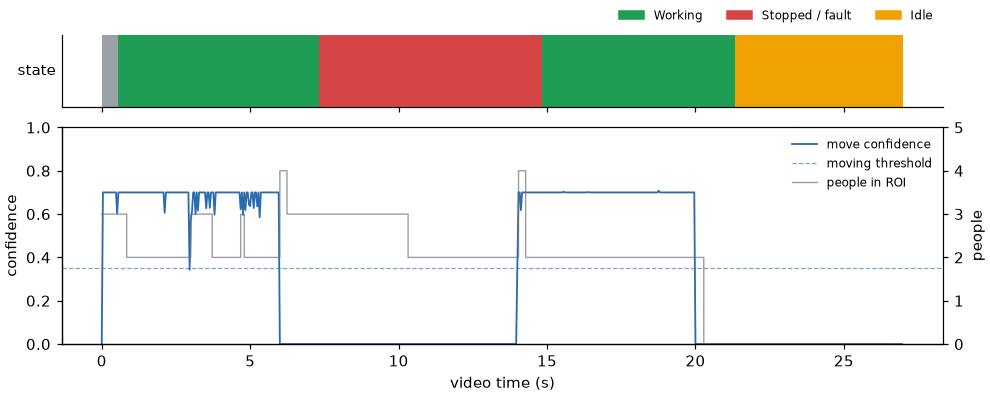
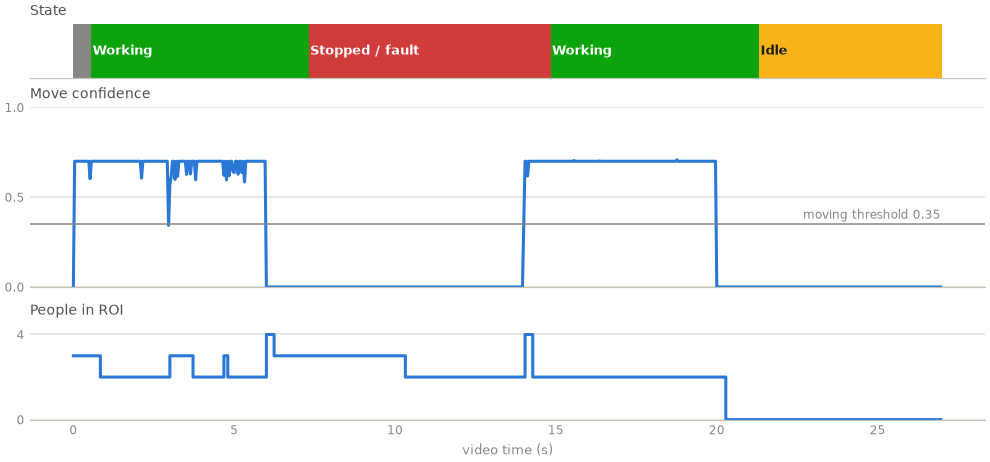
Draw the timeline as panels on one time axis
Move confidence and people count shared a plot with two y-axes, which
invites reading a relationship into arbitrary scale alignment. They are
now separate panels under the state band, with status colours for the
states and a labelled threshold line.

Changed region(s): [[0.0, 0.0, 1.0, 1.0], [0.0303, 0.0, 0.0606, 0.0303], [0.0, 0.2121, 0.0303, 0.2424]]

diff --git a/app.py b/app.py
@@ -21,7 +21,6 @@ import cv2
 import gradio as gr
 import numpy as np
 from matplotlib.figure import Figure
-from matplotlib.patches import Rectangle
 
 from escalator_monitor.config import Config
 from escalator_monitor.detector import ReplayDetector, YoloPersonDetector
@@ -40,7 +39,8 @@ EXAMPLES_DIR = Path(os.environ.get("EXAMPLES_DIR", "examples"))  # optional real
 WORK_DIR = Path(tempfile.gettempdir()) / "escalator_monitor"
 REPO_URL = "https://github.com/pranjal-agarwal01/Station-Facility-Monitor-Escalator-using-Computer-Vision-"
 
-STATE_COLORS = {"WORKING": "#1f9d55", "STOPPED / FAULT": "#d64545", "IDLE": "#f0a202", "INITIALIZING": "#9aa0a6"}
+STATE_COLORS = {"WORKING": "#0ca30c", "STOPPED / FAULT": "#d03b3b", "IDLE": "#fab219", "INITIALIZING": "#898781"}
+STATE_LABELS = {"WORKING": "Working", "STOPPED / FAULT": "Stopped / fault", "IDLE": "Idle", "INITIALIZING": ""}
 CORNER_LABELS = ("TL", "TR", "BR", "BL")
 
 _detector_lock = threading.Lock()
@@ -228,6 +228,7 @@ def cleanup_old_runs(max_age_s: float = 3 * 3600) -> None:
 
 
 def timeline_figure(timeline_csv: str, cfg: Config) -> Figure | None:
+    """State band, move confidence and people count as three panels on one time axis."""
     rows = []
     with open(timeline_csv, newline="") as f:
         for r in csv.DictReader(f):
@@ -237,40 +238,45 @@ def timeline_figure(timeline_csv: str, cfg: Config) -> Figure | None:
     t = np.array([r[0] for r in rows])
     conf = np.array([r[2] for r in rows])
     people = np.array([r[3] for r in rows])
-    fig = Figure(figsize=(9, 3.6), layout="constrained")
-    ax_state, ax_conf = fig.subplots(2, 1, sharex=True, gridspec_kw={"height_ratios": [1, 3]})
+    ink, muted, grid, series = "#52514e", "#898781", "#e1e0d9", "#2a78d6"
+    fig = Figure(figsize=(9, 4.2), layout="constrained")
+    ax_state, ax_conf, ax_people = fig.subplots(3, 1, sharex=True, gridspec_kw={"height_ratios": [0.9, 3, 1.6]})
     step = np.median(np.diff(t)) if len(t) > 1 else 0.04
     start = 0
     for i in range(1, len(rows) + 1):
         if i == len(rows) or rows[i][1] != rows[start][1]:
-            ax_state.axvspan(t[start], t[i - 1] + step, color=STATE_COLORS.get(rows[start][1], "#999"), lw=0)
+            state = rows[start][1]
+            ax_state.axvspan(t[start], t[i - 1] + step, color=STATE_COLORS.get(state, muted), lw=0)
+            label = STATE_LABELS.get(state, state)
+            if t[i - 1] + step - t[start] > 0.12 * (t[-1] - t[0] + step):
+                ax_state.text(t[start] + step, 0.5, label, va="center", fontsize=8.5, fontweight="bold",
+                              color="#1a1a19" if state == "IDLE" else "white")  # fmt: skip
             start = i
     ax_state.set_yticks([])
-    ax_state.set_ylabel("state", rotation=0, ha="right", va="center")
-    handles = [Rectangle((0, 0), 1, 1, color=c) for s, c in STATE_COLORS.items() if s != "INITIALIZING"]
-    ax_state.legend(
-        handles,
-        ["Working", "Stopped / fault", "Idle"],
-        ncol=3,
-        loc="lower right",
-        bbox_to_anchor=(1, 1.02),
-        frameon=False,
-        fontsize=8,
-    )
-    ax_conf.plot(t, conf, color="#2b6cb0", lw=1.2, label="move confidence")
-    ax_conf.axhline(cfg.move_confidence_min, color="#2b6cb0", ls="--", lw=0.8, alpha=0.6, label="moving threshold")
+    ax_state.set_title("State", loc="left", fontsize=9, color=ink)
+
+    ax_conf.plot(t, conf, color=series, lw=2, solid_joinstyle="round")
+    ax_conf.axhline(cfg.move_confidence_min, color=muted, lw=1)
+    ax_conf.text(t[-1], cfg.move_confidence_min + 0.03, f"moving threshold {cfg.move_confidence_min:.2f}",
+                 ha="right", fontsize=8, color=muted)  # fmt: skip
     ax_conf.set_ylim(0, 1)
-    ax_conf.set_xlabel("video time (s)")
-    ax_conf.set_ylabel("confidence")
-    ax_people = ax_conf.twinx()
-    ax_people.step(t, people, where="post", color="#6b7280", lw=0.9, alpha=0.7, label="people in ROI")
-    ax_people.set_ylabel("people")
-    ax_people.set_ylim(0, max(3, people.max() + 1))
-    lines = ax_conf.get_legend_handles_labels()
-    extra = ax_people.get_legend_handles_labels()
-    ax_conf.legend(lines[0] + extra[0], lines[1] + extra[1], loc="upper right", fontsize=8, frameon=False)
-    for ax in (ax_state, ax_conf):
-        ax.spines[["top", "right"]].set_visible(False)
+    ax_conf.set_yticks([0, 0.5, 1])
+    ax_conf.set_title("Move confidence", loc="left", fontsize=9, color=ink)
+
+    ax_people.step(t, people, where="post", color=series, lw=2)
+    top = max(2, int(people.max()))
+    ax_people.set_ylim(0, top + 0.5)
+    ax_people.set_yticks([0, top])
+    ax_people.set_title("People in ROI", loc="left", fontsize=9, color=ink)
+    ax_people.set_xlabel("video time (s)", color=muted, fontsize=8.5)
+
+    for ax in (ax_state, ax_conf, ax_people):
+        ax.spines[["top", "right", "left"]].set_visible(False)
+        ax.spines["bottom"].set_color("#c3c2b7")
+        ax.tick_params(colors=muted, labelsize=8, length=0)
+        if ax is not ax_state:
+            ax.grid(axis="y", color=grid, lw=1)
+            ax.set_axisbelow(True)
     return fig
 
 
